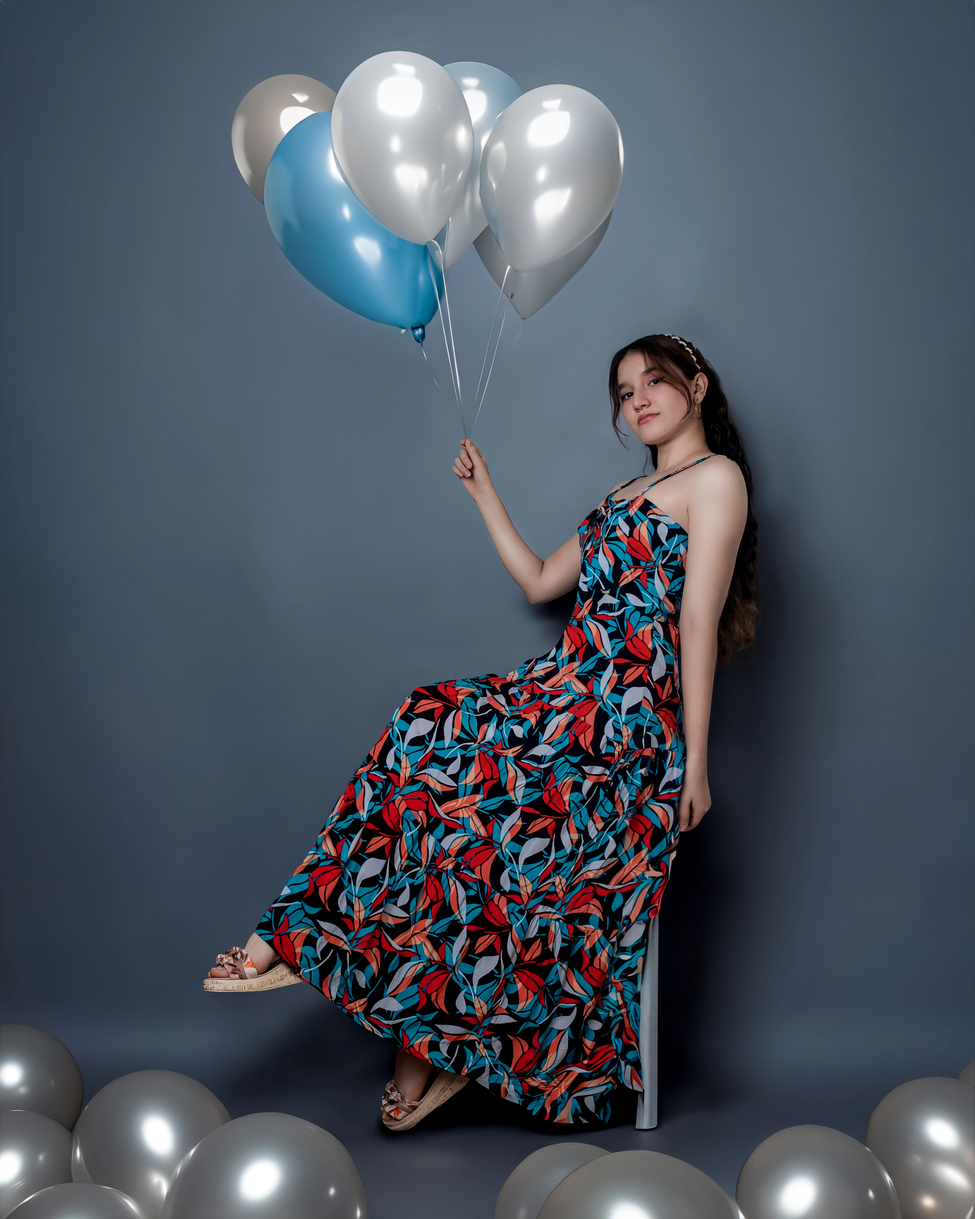
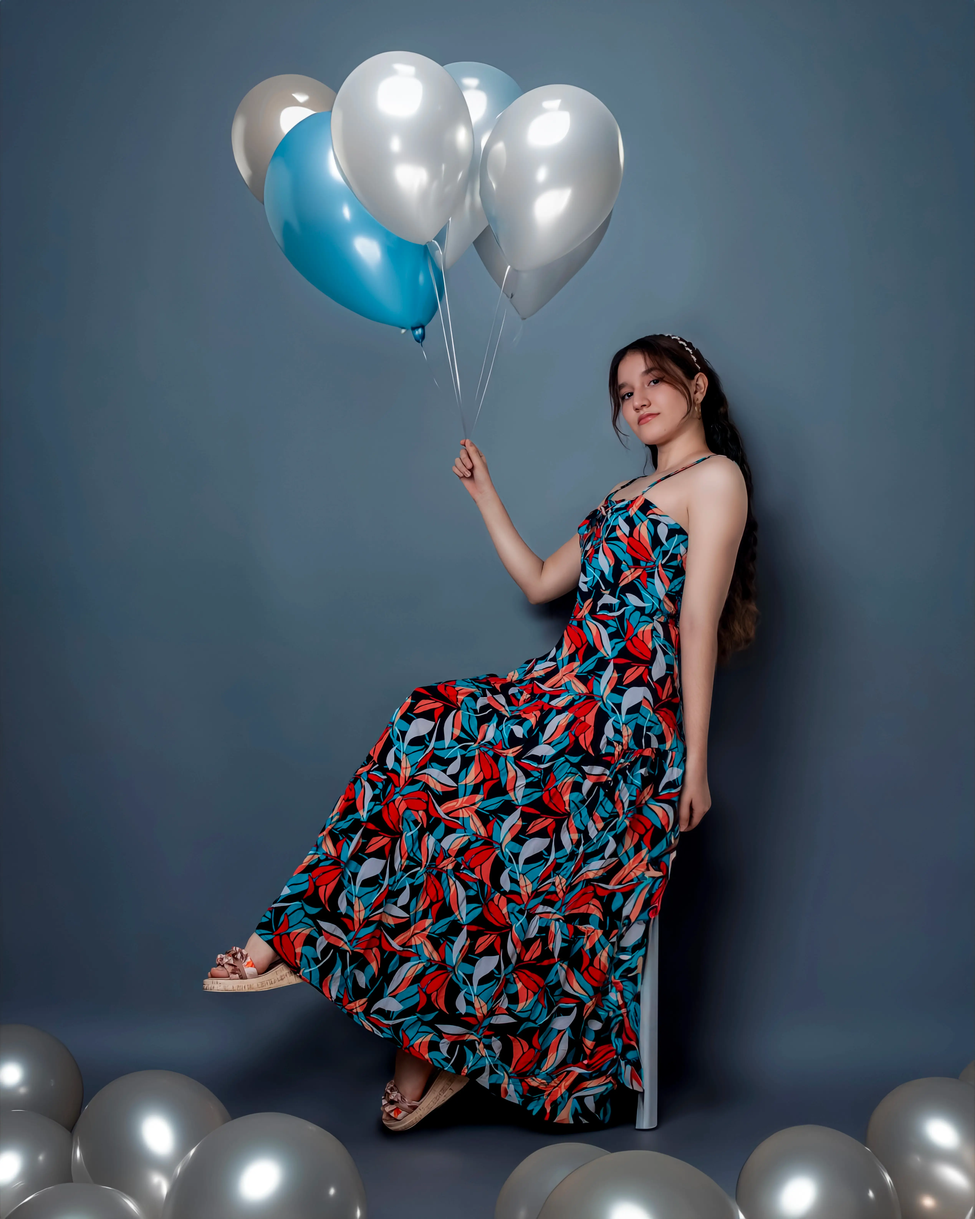
se comprimieron unas imagenes para optimizar la web

Changed region(s): [[0.28, 0.0936, 0.4667, 0.2807]]

diff --git a/css/styles.css b/css/styles.css
@@ -125,3 +125,9 @@ body {
 }
 
 /* end header nav */
+
+/* start main */
+
+
+
+/* end main */
